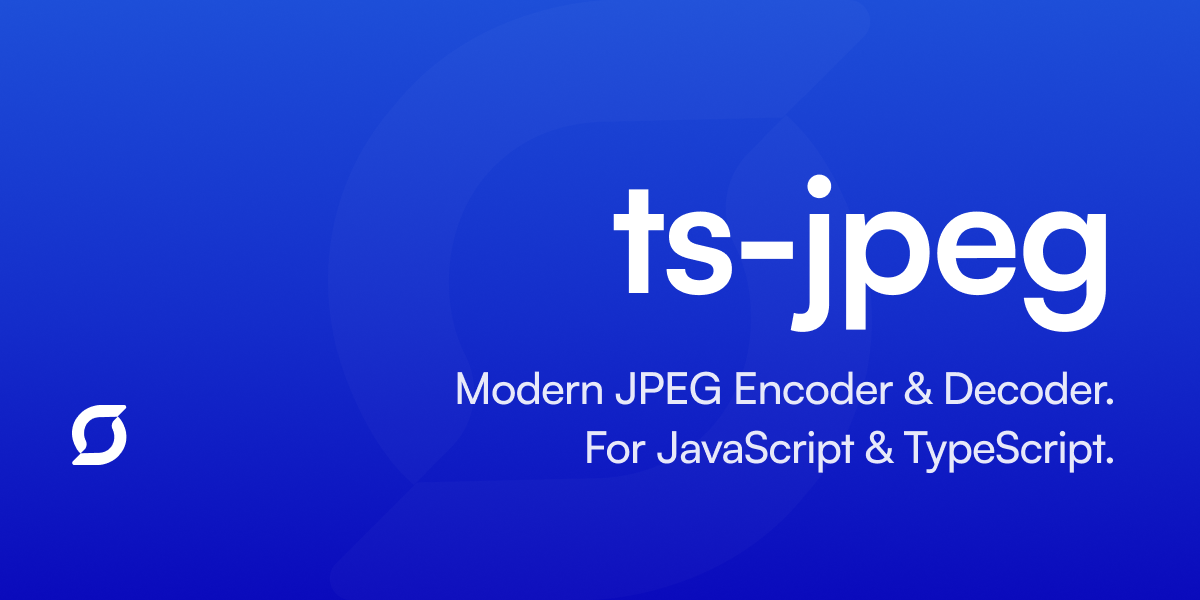
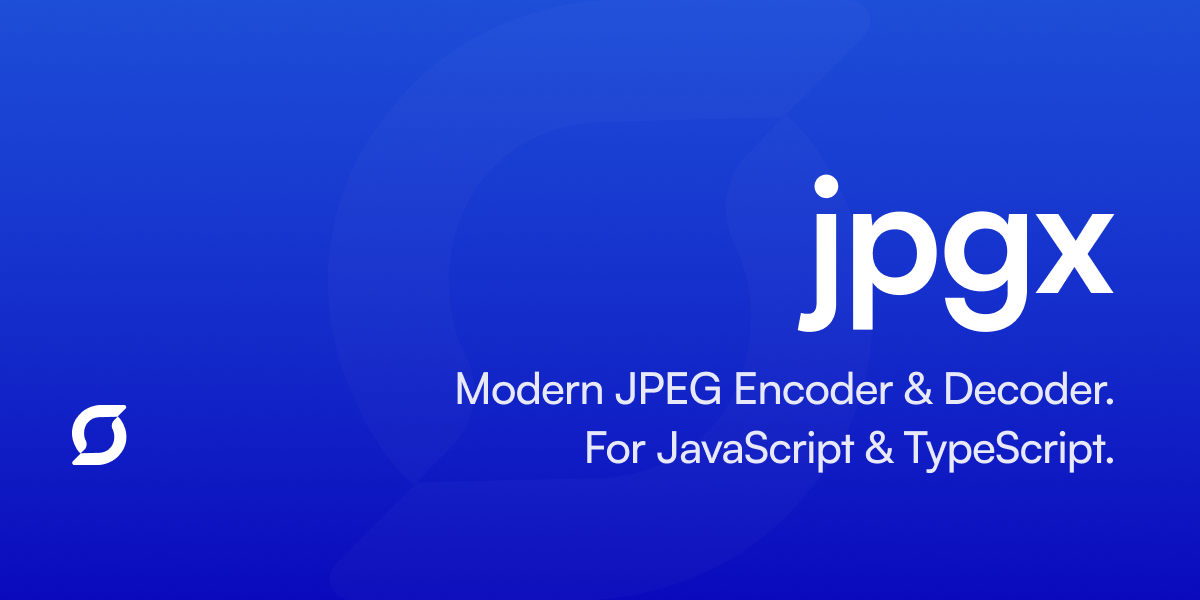
chore: rename to `jpgx`

Changed region(s): [[0.4933, 0.3, 0.925, 0.57], [0.6475, 0.27, 0.7092, 0.33]]

diff --git a/docs/.vitepress/config.ts b/docs/.vitepress/config.ts
@@ -22,7 +22,7 @@ const nav = [
   { text: 'News', link: 'https://stacksjs.org/news' },
   {
     text: 'Changelog',
-    link: 'https://github.com/stacksjs/ts-starter/blob/main/CHANGELOG.md',
+    link: 'https://github.com/stacksjs/jpgx/blob/main/CHANGELOG.md',
   },
   // { text: 'Blog', link: 'https://updates.ow3.org' },
   {
@@ -62,12 +62,12 @@ const sidebar = [
   { text: 'Showcase', link: '/Showcase' },
 ]
 const description = 'A TypeScript Starter Kit. For a better Development Experience.'
-const title = 'ts-starter | A TypeScript Starter Kit. For a better Development Experience.'
+const title = 'jpgx | A TypeScript Starter Kit. For a better Development Experience.'
 
 export default withPwa(
   defineConfig({
     lang: 'en-US',
-    title: 'ts-starter',
+    title: 'jpgx',
     description,
     metaChunk: true,
     cleanUrls: true,
@@ -82,7 +82,7 @@ export default withPwa(
       ['meta', { name: 'author', content: 'Stacks.js, Inc.' }],
       ['meta', {
         name: 'tags',
-        content: 'ts-starter, stacksjs, reverse proxy, modern, lightweight, zero-config, local development',
+        content: 'jpgx, stacksjs, reverse proxy, modern, lightweight, zero-config, local development',
       }],
 
       ['meta', { property: 'og:type', content: 'website' }],
@@ -90,9 +90,9 @@ export default withPwa(
       ['meta', { property: 'og:title', content: title }],
       ['meta', { property: 'og:description', content: description }],
 
-      ['meta', { property: 'og:site_name', content: 'ts-starter' }],
+      ['meta', { property: 'og:site_name', content: 'jpgx' }],
       ['meta', { property: 'og:image', content: './images/og-image.png' }],
-      ['meta', { property: 'og:url', content: 'https://ts-jpeg.netlify.app/' }],
+      ['meta', { property: 'og:url', content: 'https://jpgx.netlify.app/' }],
       // ['script', { 'src': 'https://cdn.usefathom.com/script.js', 'data-site': '', 'data-spa': 'auto', 'defer': '' }],
       ...analyticsHead,
     ],
@@ -122,7 +122,7 @@ export default withPwa(
       socialLinks: [
         { icon: 'twitter', link: 'https://twitter.com/stacksjs' },
         { icon: 'bluesky', link: 'https://bsky.app/profile/chrisbreuer.dev' },
-        { icon: 'github', link: 'https://github.com/stacksjs/ts-starter' },
+        { icon: 'github', link: 'https://github.com/stacksjs/jpgx' },
         { icon: 'discord', link: 'https://discord.gg/stacksjs' },
       ],
 

diff --git a/test/ts-jpeg.test.ts b/test/ts-jpeg.test.ts
@@ -1,13 +1,7 @@
-import { expect, it } from 'bun:test'
-import { Buffer } from 'node:buffer'
-import fs from 'node:fs'
-import path from 'node:path'
-import jpeg from '../src/index'
-
-// const assert = require('node:assert')
-// const fs = require('node:fs')
-// const path = require('node:path')
-// const jpeg = require('..')
+const assert = require('node:assert')
+const fs = require('node:fs')
+const path = require('node:path')
+const jpeg = require('..')
 
 function fixture(name) {
   return fs.readFileSync(path.join(__dirname, 'fixtures', name))

diff --git a/README.md b/README.md
@@ -6,7 +6,7 @@
 <!-- [![npm downloads][npm-downloads-src]][npm-downloads-href] -->
 <!-- [![Codecov][codecov-src]][codecov-href] -->
 
-# ts-jpeg
+# jpgx
 
 > A TypeScript library for encoding & decoding JPEG images with robust memory management.
 
@@ -26,11 +26,11 @@
 ## Installation
 
 ```bash
-npm install ts-jpeg
+npm install jpgx
 # or
-pnpm add ts-jpeg
+pnpm add jpgx
 # or
-bun i ts-jpeg
+bun i jpgx
 ```
 
 ## Usage
@@ -38,7 +38,7 @@ bun i ts-jpeg
 ### Decoding JPEG Images
 
 ```ts
-import { decode } from 'ts-jpeg'
+import { decode } from 'jpgx'
 
 // Basic decoding
 const jpegBuffer = await fetch('image.jpg').then(res => res.arrayBuffer())
@@ -60,7 +60,7 @@ const { width, height, data, exifBuffer, comments } = image
 ### Encoding JPEG Images
 
 ```ts
-import { JPEGEncoder } from 'ts-jpeg'
+import { JPEGEncoder } from 'jpgx'
 
 // Create an encoder with quality setting (1-100)
 const encoder = new JPEGEncoder(85) // 85% quality
@@ -75,7 +75,7 @@ const jpegData = encoder.encode({
   width,
   height,
   data: rgbData,
-  comments: ['Created with ts-jpeg'],
+  comments: ['Created with jpgx'],
   exifBuffer: existingExifData // Optional
 })
 
@@ -88,7 +88,7 @@ await fs.writeFile('output.jpg', jpegData)
 The library includes built-in memory management to prevent out-of-memory errors:
 
 ```ts
-import { decode, JpegImage } from 'ts-jpeg'
+import { decode, JpegImage } from 'jpgx'
 
 // Set global memory limits
 JpegImage.resetMaxMemoryUsage(512 * 1024 * 1024) // 512MB limit
@@ -200,7 +200,7 @@ bun test
 
 ## Changelog
 
-Please see our [releases](https://github.com/stackjs/ts-jpeg/releases) page for more information on what has changed recently.
+Please see our [releases](https://github.com/stackjs/jpgx/releases) page for more information on what has changed recently.
 
 ## Contributing
 
@@ -210,7 +210,7 @@ Please see [CONTRIBUTING](.github/CONTRIBUTING.md) for details.
 
 For help, discussion about best practices, or any other conversation that would benefit from being searchable:
 
-[Discussions on GitHub](https://github.com/stacksjs/ts-starter/discussions)
+[Discussions on GitHub](https://github.com/stacksjs/jpgx/discussions)
 
 For casual chit-chat with others using this package:
 
@@ -240,10 +240,10 @@ The MIT License (MIT). Please see [LICENSE](LICENSE.md) for more information.
 Made with 💙
 
 <!-- Badges -->
-[npm-version-src]: https://img.shields.io/npm/v/ts-jpeg?style=flat-square
-[npm-version-href]: https://npmjs.com/package/ts-jpeg
-[github-actions-src]: https://img.shields.io/github/actions/workflow/status/stacksjs/ts-starter/ci.yml?style=flat-square&branch=main
-[github-actions-href]: https://github.com/stacksjs/ts-starter/actions?query=workflow%3Aci
+[npm-version-src]: https://img.shields.io/npm/v/jpgx?style=flat-square
+[npm-version-href]: https://npmjs.com/package/jpgx
+[github-actions-src]: https://img.shields.io/github/actions/workflow/status/stacksjs/jpgx/ci.yml?style=flat-square&branch=main
+[github-actions-href]: https://github.com/stacksjs/jpgx/actions?query=workflow%3Aci
 
-<!-- [codecov-src]: https://img.shields.io/codecov/c/gh/stacksjs/ts-starter/main?style=flat-square
-[codecov-href]: https://codecov.io/gh/stacksjs/ts-starter -->
+<!-- [codecov-src]: https://img.shields.io/codecov/c/gh/stacksjs/jpgx/main?style=flat-square
+[codecov-href]: https://codecov.io/gh/stacksjs/jpgx -->

diff --git a/docs/intro.md b/docs/intro.md
@@ -4,7 +4,7 @@
 
 > A TypeScript Starter Kit that will help you bootstrap your next project without minimal opinion.
 
-# bun-ts-starter
+# ts-jpeg
 
 This is an opinionated TypeScript Starter kit to help kick-start development of your next Bun package.
 
